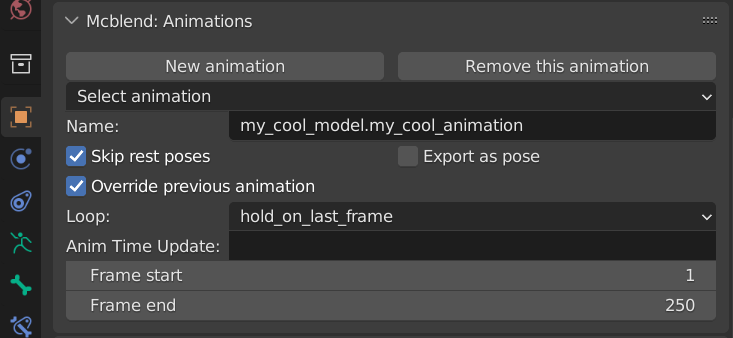
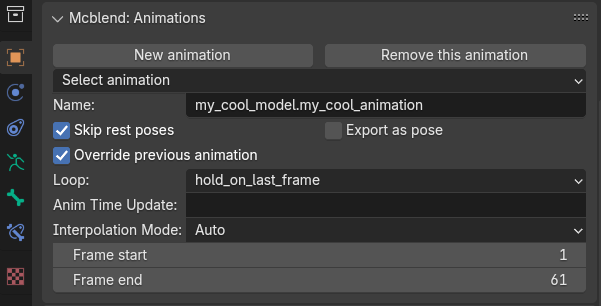
Version 11.2.0 - Added interpolation mode options to animation properties and updated documentation to reflect new features. Enhanced animation export functionality to support forced interpolation modes.

diff --git a/mcblend/operator_func/animation.py b/mcblend/operator_func/animation.py
@@ -30,6 +30,7 @@ class InterpolationMode(Enum):
     STEP = 0
     LINEAR = 1
     SMOOTH = 2
+    AUTO = 3  # Use the interpolation mode detected from Blender keyframes
 
     # Must be comparable for bisect
     def __lt__(self, other: InterpolationMode) -> bool:
@@ -165,9 +166,12 @@ TimeNameTypeInterpolation = Tuple[
     float, None | Tuple[str, TransformationType, InterpolationMode]]
 
 class ObjectKeyframesInfo:
-    def __init__(self, obj: Object | None):
+    def __init__(
+            self, obj: Object | None, 
+            forced_interpolation: InterpolationMode = InterpolationMode.AUTO):
         self.keyframes: set[float] = set()
         self.timelines: Dict[tuple[str, TransformationType], Timeline] = {}
+        self.forced_interpolation = forced_interpolation
         if obj is None:
             return
         self._init_keyframes_and_timelines(obj)
@@ -183,6 +187,10 @@ class ObjectKeyframesInfo:
         :param timestamp: the timestamp of the keyframe.
         :returns: the interpolation mode of the bone state.
         '''
+        # Return forced interpolation if not AUTO
+        if self.forced_interpolation != InterpolationMode.AUTO:
+            return self.forced_interpolation
+            
         timelines_key = (bone_name, transformation_type)
         if timelines_key not in self.timelines:
             return InterpolationMode.LINEAR
@@ -399,6 +407,9 @@ class AnimationExport:
     :param poses: Optional - poses of the animation (keyframes) keyed by the
         number of the frame. This dictionary is empty by default after the
         creation and it gets populated on loading the poses.
+    :param forced_interpolation: Optional - force all keyframes to use a specific
+        interpolation mode: InterpolationMode.LINEAR, InterpolationMode.SMOOTH,
+        InterpolationMode.STEP, or InterpolationMode.AUTO (default).
     '''
     name: str
     length: float
@@ -412,6 +423,8 @@ class AnimationExport:
     poses: Dict[float, Pose] = field(default_factory=dict)
     sound_effects: Dict[int, List[Dict[Any, Any]]] = field(default_factory=dict)
     particle_effects: Dict[int, List[Dict[Any, Any]]] = field(default_factory=dict)
+    forced_interpolation: InterpolationMode = field(
+        default=InterpolationMode.AUTO)
 
     def load_poses_and_bone_states(
             self, object_properties: McblendObjectGroup,
@@ -437,7 +450,9 @@ class AnimationExport:
                 # The frame value in the dictionary key doesn't really matter
                 self.poses[keyframe] = pose
             else:
-                bone_states = ObjectKeyframesInfo(context.object)
+                bone_states = ObjectKeyframesInfo(
+                    context.object, forced_interpolation=self.forced_interpolation
+                )
                 for keyframe in sorted(bone_states.keyframes):
                     if (
                         keyframe < context.scene.frame_start or

diff --git a/mcblend/operator_func/__init__.py b/mcblend/operator_func/__init__.py
@@ -21,7 +21,7 @@ from .typed_bpy_access import (
 
 from .sqlite_bedrock_packs.better_json_tools import load_jsonc
 
-from .animation import AnimationExport
+from .animation import AnimationExport, InterpolationMode
 from .common import (
     MINECRAFT_SCALE_FACTOR, CubePolygon, McblendObject, McblendObjectGroup, MeshType,
     apply_obj_transform_keep_origin, fix_cube_rotation, star_pattern_match,
@@ -84,14 +84,13 @@ def export_animation(
     if armature is None or armature.type != 'ARMATURE':
         # Should never happen (checked in the operator)
         raise ValueError("Selected object is not an armature")
-    anim_data = get_mcblend(armature).animations[
-        get_mcblend(armature).active_animation]
+    model_properties = get_mcblend(armature)
+    anim_id = model_properties.active_animation
+    anim_data = model_properties.animations[anim_id]
 
-    # TODO - write this code nicer, passing world_origin as a string isn't
-    # a perfect solution
     world_origin = None
-    use_armature_origin: bool = get_mcblend(
-        armature).model_origin == ModelOriginType.ARMATURE.value
+    use_armature_origin: bool = model_properties.model_origin == (
+        ModelOriginType.ARMATURE.value)
     if use_armature_origin:
         world_origin = armature
 
@@ -99,6 +98,15 @@ def export_animation(
     object_properties = McblendObjectGroup(armature, world_origin)
 
     effective_fps = context.scene.render.fps/context.scene.render.fps_base
+    # Create forced interpolation mode from string
+    forced_interpolation = InterpolationMode.AUTO
+    if anim_data.interpolation_mode == 'LINEAR':
+        forced_interpolation = InterpolationMode.LINEAR
+    elif anim_data.interpolation_mode == 'SMOOTH':
+        forced_interpolation = InterpolationMode.SMOOTH
+    elif anim_data.interpolation_mode == 'STEP':
+        forced_interpolation = InterpolationMode.STEP
+
     animation = AnimationExport(
         name=anim_data.name,
         length=(context.scene.frame_end-1)/effective_fps,
@@ -110,7 +118,8 @@ def export_animation(
         effect_events={
             event.name: event.get_effects_dict()
             for event in get_mcblend_events(context.scene)
-        }
+        },
+        forced_interpolation=forced_interpolation
     )
     animation.load_poses_and_bone_states(object_properties, context)
     return animation.json(

diff --git a/mcblend/object_data.py b/mcblend/object_data.py
@@ -199,6 +199,17 @@ class MCBLEND_AnimationProperties(PropertyGroup):
         default="",
         maxlen=1024
     )
+    interpolation_mode: EnumProperty(
+        items=(
+            ('AUTO', 'Auto', 'Use the interpolation mode detected from Blender keyframes'),
+            ('LINEAR', 'Linear', 'Force all keyframes to use linear interpolation'),
+            ('SMOOTH', 'Smooth', 'Force all keyframes to use smooth interpolation'),
+            ('STEP', 'Step', 'Force all keyframes to use step interpolation')
+        ),
+        name='Interpolation Mode',
+        description='Control how keyframes are interpolated',
+        default='AUTO'
+    )
     loop: EnumProperty(
         items=(
             (

diff --git a/mcblend/panel.py b/mcblend/panel.py
@@ -735,6 +735,10 @@ class MCBLEND_PT_AnimationPropertiesPanel(Panel):
                     "anim_time_update",
                     text="Anim Time Update")
                 col.prop(
+                    active_anim,  # type: ignore
+                    "interpolation_mode",
+                    text="Interpolation Mode")
+                col.prop(
                     bpy.context.scene,  # type: ignore
                     "frame_start", text="Frame start")
                 col.prop(

diff --git a/mcblend/__init__.py b/mcblend/__init__.py
@@ -116,7 +116,7 @@ bl_info = {
     "author": "Artur",
     "description": "An addon that allows to design and animate Minecraft Bedrock Edition models",
     "blender": (4, 2, 0),
-    "version": (11, 1, 0),  # Remember to update the version in the "docs/conf.py"
+    "version": (11, 2, 0),  # Remember to update the version in the "docs/conf.py"
     "location": "",
     "warning": "",
     "category": "Object"

diff --git a/docs/gui/object_properties.md b/docs/gui/object_properties.md
@@ -47,6 +47,7 @@ The Materials panel allows you to quickly create materials that are similar to t
 
 Once you've set up your render controller, you can use the `Apply materials` button to automatically create the materials for preview in Blender. This will help you get a better sense of how your model will look in Minecraft.
 
+(mcblend-object-properties-animations)=
 ### Mcblend: Animations
 
 ![](/img/gui/object_properties_armature_animations.png)
@@ -62,6 +63,7 @@ The `Mcblend: Animations panel` allows you to easily switch between animations i
 - The `Override previous animation` field directly translates to the override_previous_animation property of the Minecraft animation. It doesn't affect how the animation is rendered in Blender.
 - The `Loop` field directly translates to the loop property of the Minecraft animation file. There are three options: `true`, `false`, and `hold_on_last_frame`.
 - The `Anim Time Update` field directly translates to the anim_time_update property of the Minecraft animation file. You should either leave it empty (if you don't want to have anim_time_update in your animation) or put a Molang expression in it. It doesn't affect the animation in Mcblend because Mcblend doesn't support Molang.
+- The `Interpolation mode` field directly translates to the interpolation mode of the Minecraft animation file. There are four options: `linear`, `smooth`, `step`, and `auto`.
 - The `Frame start` field indicates the first frame of the animation. It tells Mcblend where the animation starts.
 - The `Frame end` field indicates the last frame of the animation. It tells Mcblend where the animation ends.
 

diff --git a/docs/animations/essential_concepts.md b/docs/animations/essential_concepts.md
@@ -30,6 +30,10 @@ Let's say that in the image above, `bone_2` uses constant interpolation on frame
 
 This behavior can cause unexpected results when using stepped or smooth interpolation. To ensure predictable animations, it's generally best to use linear interpolation unless a different mode is necessary.
 
+```{note}
+If you want to force all keyframes to use a specific interpolation mode, you can use the `Interpolation mode` field in [Mcblend: Animation](mcblend-object-properties-animations).
+```
+
 ```{warning}
 Bézier interpolation in Blender does not exactly match smooth frames in Minecraft, which use a Catmull-Rom spline. For a similar effect in Blender's preview, use Bézier interpolation with "automatic" handle types.
 
